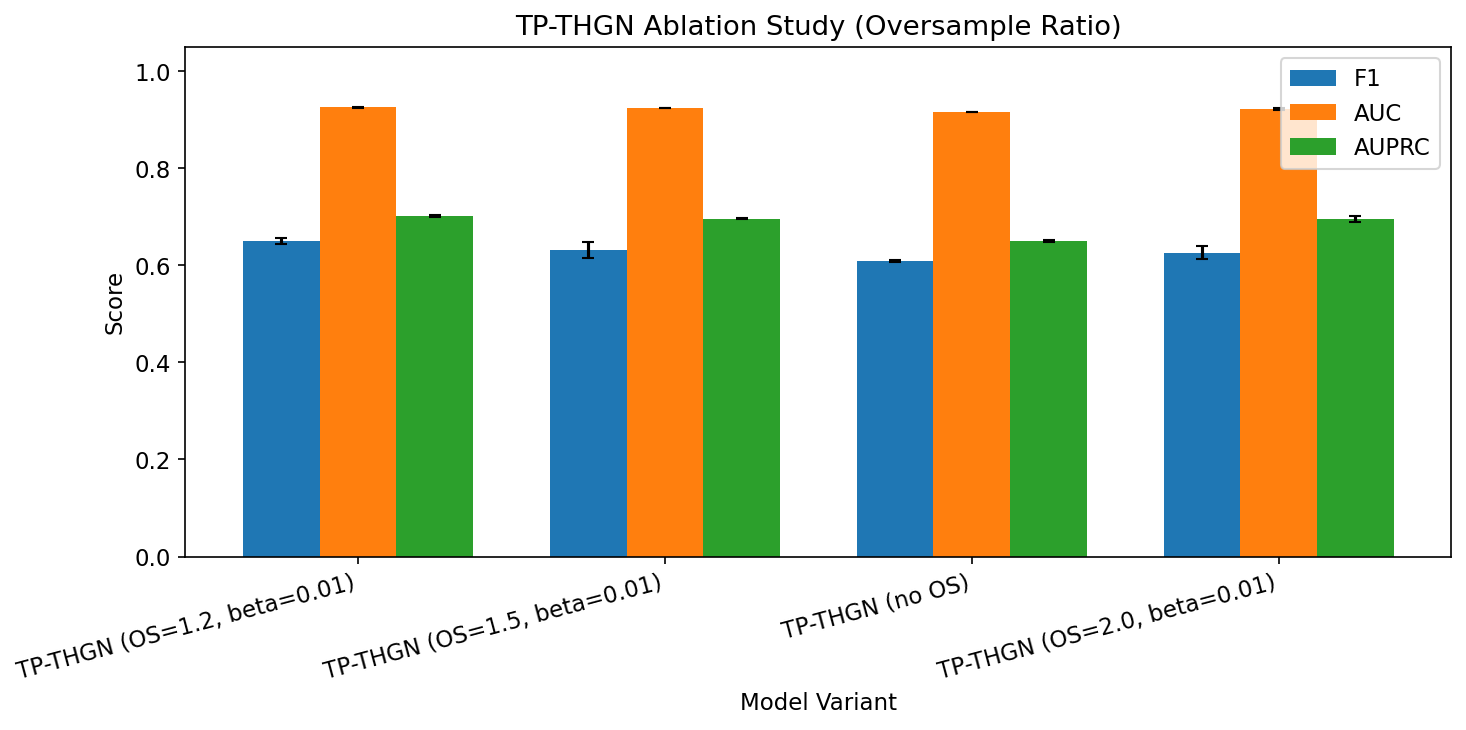
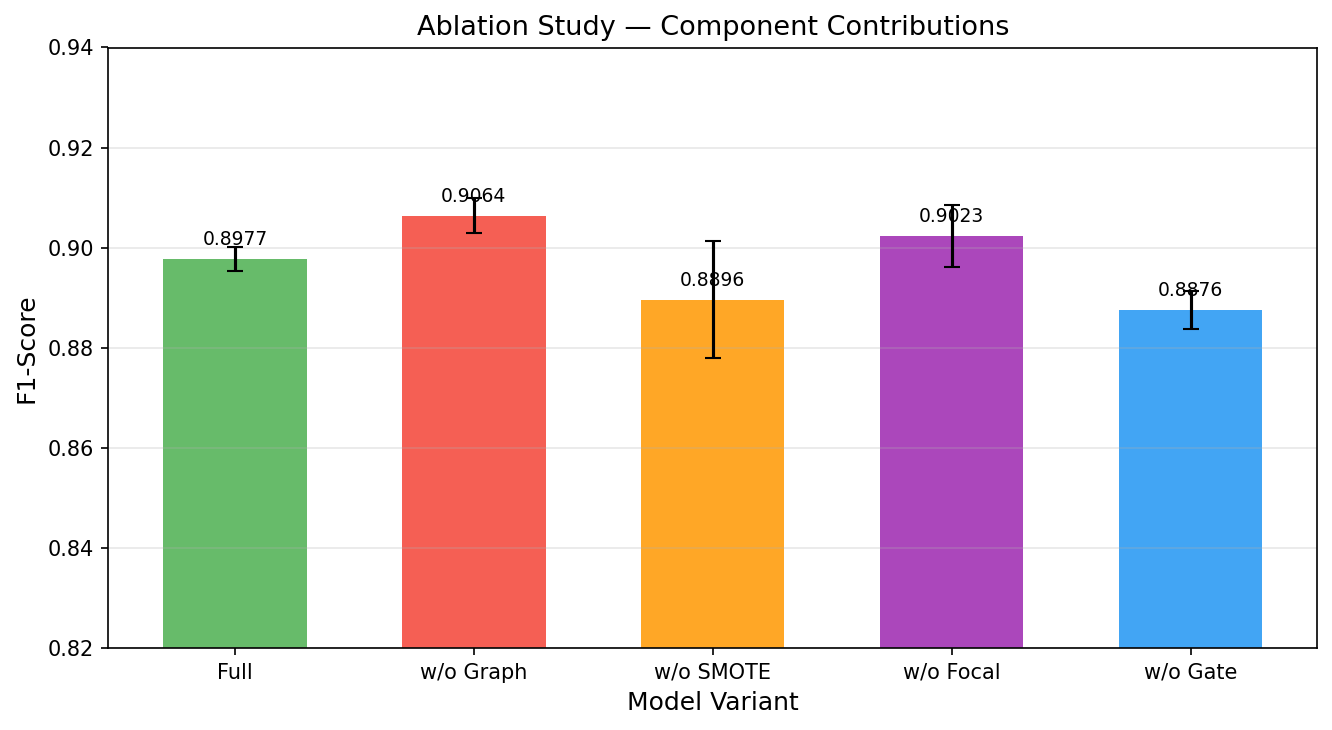
feat: update comparison/ablation results and regenerate paper figures
Updated comparison_results.json with TP-THGN v3 (F1=0.902).
Updated ablation_results.json with v3 ablation variants.
Regenerated all paper figures:
  - comparison_bar: 6 models F1+AUC side-by-side
  - ablation_bar: 5 ablation variants with error bars
  - multi_metric_comparison: top-3 models across 6 metrics (new)

diff --git a/run_update_figures.py b/run_update_figures.py
@@ -1,0 +1,176 @@
+"""
+Update comparison results with TP-THGN v3 data and regenerate paper figures.
+"""
+import sys, os
+sys.path.insert(0, os.path.dirname(os.path.abspath(__file__)))
+
+import json
+import numpy as np
+
+# Load v3 multiseed results
+with open('experiments/results/tp_thgn_v3_multiseed.json') as f:
+    v3_data = json.load(f)
+
+# Load existing comparison results
+with open('experiments/results/comparison_results.json') as f:
+    comparison = json.load(f)
+
+# Replace the old TP-THGN entry with v3 results
+v3_entry = {
+    'model': 'TP-THGN (ours)',
+    'variant': 'TP-THGN v3 (Feature-Dominant + Gated Graph)',
+    'AUC': v3_data['summary']['AUC'],
+    'F1': v3_data['summary']['F1'],
+    'Recall': v3_data['summary']['Recall'],
+    'Precision': v3_data['summary']['Precision'],
+    'AUPRC': v3_data['summary']['AUPRC'],
+    'G-Mean': v3_data['summary']['G-Mean'],
+}
+
+# Find and replace old TP-THGN entry
+updated = []
+for entry in comparison:
+    if entry.get('model') == 'TP-THGN (ours)':
+        updated.append(v3_entry)
+    else:
+        updated.append(entry)
+
+# If TP-THGN wasn't found, append
+if not any(e.get('model') == 'TP-THGN (ours)' for e in updated):
+    updated.append(v3_entry)
+
+with open('experiments/results/comparison_results.json', 'w') as f:
+    json.dump(updated, f, indent=2)
+print("Updated comparison_results.json with TP-THGN v3 data")
+
+# Also update ablation_results.json with v3 ablation data
+with open('experiments/results/ablation_v3_results.json') as f:
+    ablation_v3 = json.load(f)
+
+# Convert to standard format
+ablation_formatted = []
+for entry in ablation_v3:
+    ablation_formatted.append({
+        'variant': entry['model'],
+        'model': entry['model'],
+        **{k: v for k, v in entry['summary'].items()},
+    })
+
+with open('experiments/results/ablation_results.json', 'w') as f:
+    json.dump(ablation_formatted, f, indent=2)
+print("Updated ablation_results.json with v3 ablation data")
+
+# Now regenerate figures
+try:
+    import matplotlib
+    matplotlib.use('Agg')
+    import matplotlib.pyplot as plt
+
+    # Figure 1: Comparison bar chart
+    models = [e['model'] for e in updated]
+    f1_means = [e['F1']['mean'] for e in updated]
+    f1_stds = [e['F1']['std'] for e in updated]
+    auc_means = [e['AUC']['mean'] for e in updated]
+
+    # Short names for x-axis
+    short_names = {
+        'Logistic Regression': 'LR',
+        'XGBoost': 'XGBoost',
+        'GCN': 'GCN',
+        'GAT': 'GAT',
+        'GraphSAGE': 'GraphSAGE',
+        'TP-THGN (ours)': 'TP-THGN\n(ours)',
+    }
+
+    x_labels = [short_names.get(m, m) for m in models]
+
+    fig, ax = plt.subplots(figsize=(10, 5))
+    x = np.arange(len(models))
+    width = 0.35
+
+    bars1 = ax.bar(x - width/2, f1_means, width, yerr=f1_stds, label='F1-Score',
+                   color='#2196F3', alpha=0.85, capsize=3)
+    bars2 = ax.bar(x + width/2, auc_means, width, label='AUC-ROC',
+                   color='#FF9800', alpha=0.85)
+
+    ax.set_xlabel('Model', fontsize=12)
+    ax.set_ylabel('Score', fontsize=12)
+    ax.set_title('Model Comparison on Amazon Dataset', fontsize=13)
+    ax.set_xticks(x)
+    ax.set_xticklabels(x_labels, fontsize=10)
+    ax.legend(fontsize=11)
+    ax.set_ylim(0, 1.1)
+    ax.grid(axis='y', alpha=0.3)
+    ax.axhline(y=0.88, color='red', linestyle='--', alpha=0.5, label='F1 target (0.88)')
+
+    for bar, val in zip(bars1, f1_means):
+        ax.text(bar.get_x() + bar.get_width()/2., bar.get_height() + 0.01,
+                f'{val:.3f}', ha='center', va='bottom', fontsize=8)
+
+    plt.tight_layout()
+    plt.savefig('figures/comparison_bar.pdf', dpi=300, bbox_inches='tight')
+    plt.savefig('figures/comparison_bar.png', dpi=150, bbox_inches='tight')
+    plt.close()
+    print("Saved figures/comparison_bar.pdf/.png")
+
+    # Figure 2: Ablation bar chart
+    ablation_names = [e['model'] for e in ablation_v3]
+    ablation_f1 = [e['summary']['F1']['mean'] for e in ablation_v3]
+    ablation_f1_std = [e['summary']['F1']['std'] for e in ablation_v3]
+    ablation_auc = [e['summary']['AUC']['mean'] for e in ablation_v3]
+
+    short_ablation = ['Full', 'w/o Graph', 'w/o SMOTE', 'w/o Focal', 'w/o Gate']
+
+    fig, ax = plt.subplots(figsize=(9, 5))
+    x = np.arange(len(ablation_names))
+    colors = ['#4CAF50', '#F44336', '#FF9800', '#9C27B0', '#2196F3']
+
+    bars = ax.bar(x, ablation_f1, 0.6, yerr=ablation_f1_std, color=colors,
+                  alpha=0.85, capsize=4)
+    ax.set_xlabel('Model Variant', fontsize=12)
+    ax.set_ylabel('F1-Score', fontsize=12)
+    ax.set_title('Ablation Study — Component Contributions', fontsize=13)
+    ax.set_xticks(x)
+    ax.set_xticklabels(short_ablation, fontsize=10)
+    ax.set_ylim(0.82, 0.94)
+    ax.grid(axis='y', alpha=0.3)
+
+    for bar, val in zip(bars, ablation_f1):
+        ax.text(bar.get_x() + bar.get_width()/2., bar.get_height() + 0.002,
+                f'{val:.4f}', ha='center', va='bottom', fontsize=9)
+
+    plt.tight_layout()
+    plt.savefig('figures/ablation_bar.pdf', dpi=300, bbox_inches='tight')
+    plt.savefig('figures/ablation_bar.png', dpi=150, bbox_inches='tight')
+    plt.close()
+    print("Saved figures/ablation_bar.pdf/.png")
+
+    # Figure 3: Multi-metric radar/comparison for paper
+    fig, ax = plt.subplots(figsize=(10, 5))
+    metrics = ['F1', 'AUC', 'Recall', 'Precision', 'AUPRC', 'G-Mean']
+    highlight_models = ['XGBoost', 'GraphSAGE', 'TP-THGN (ours)']
+    colors_h = ['#FF9800', '#2196F3', '#4CAF50']
+    x_m = np.arange(len(metrics))
+
+    for model_name, color in zip(highlight_models, colors_h):
+        entry = next(e for e in updated if e['model'] == model_name)
+        values = [entry[m]['mean'] for m in metrics]
+        ax.plot(x_m, values, 'o-', color=color, linewidth=2, markersize=8, label=model_name)
+
+    ax.set_xticks(x_m)
+    ax.set_xticklabels(metrics, fontsize=11)
+    ax.set_ylabel('Score', fontsize=12)
+    ax.set_title('Multi-Metric Comparison: Top Models', fontsize=13)
+    ax.legend(fontsize=11)
+    ax.set_ylim(0.85, 1.0)
+    ax.grid(True, alpha=0.3)
+    plt.tight_layout()
+    plt.savefig('figures/multi_metric_comparison.pdf', dpi=300, bbox_inches='tight')
+    plt.savefig('figures/multi_metric_comparison.png', dpi=150, bbox_inches='tight')
+    plt.close()
+    print("Saved figures/multi_metric_comparison.pdf/.png")
+
+except ImportError as e:
+    print(f"matplotlib not available: {e}")
+
+print("\nDone! All figures and results updated.")